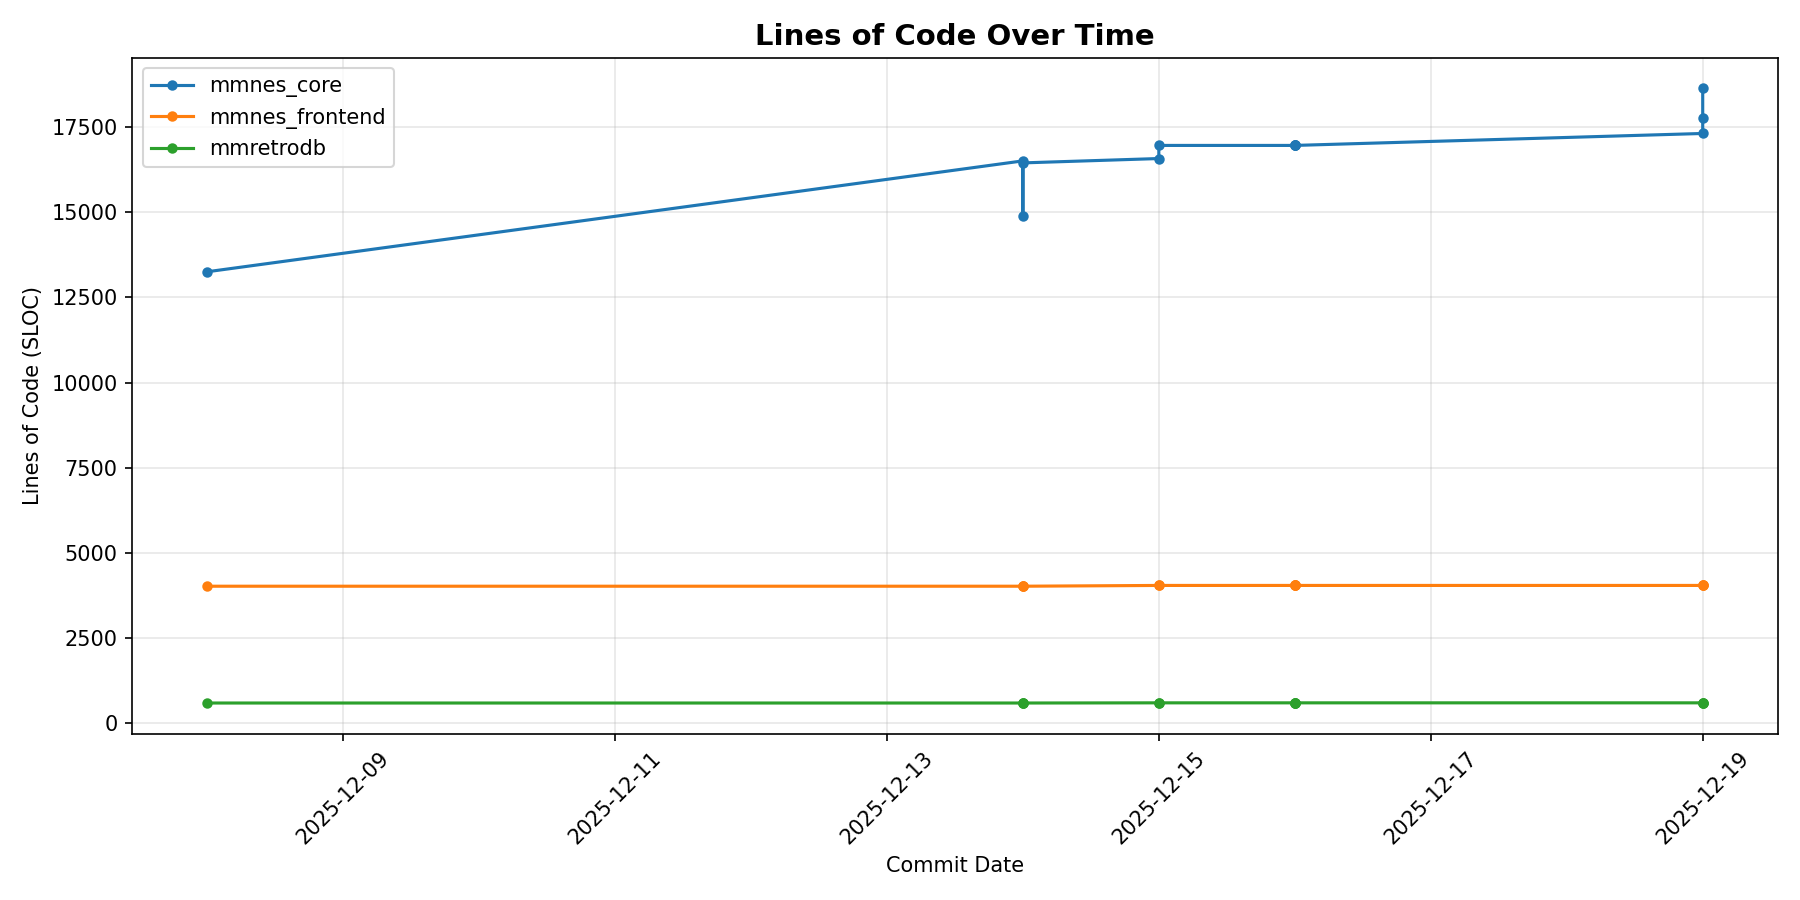
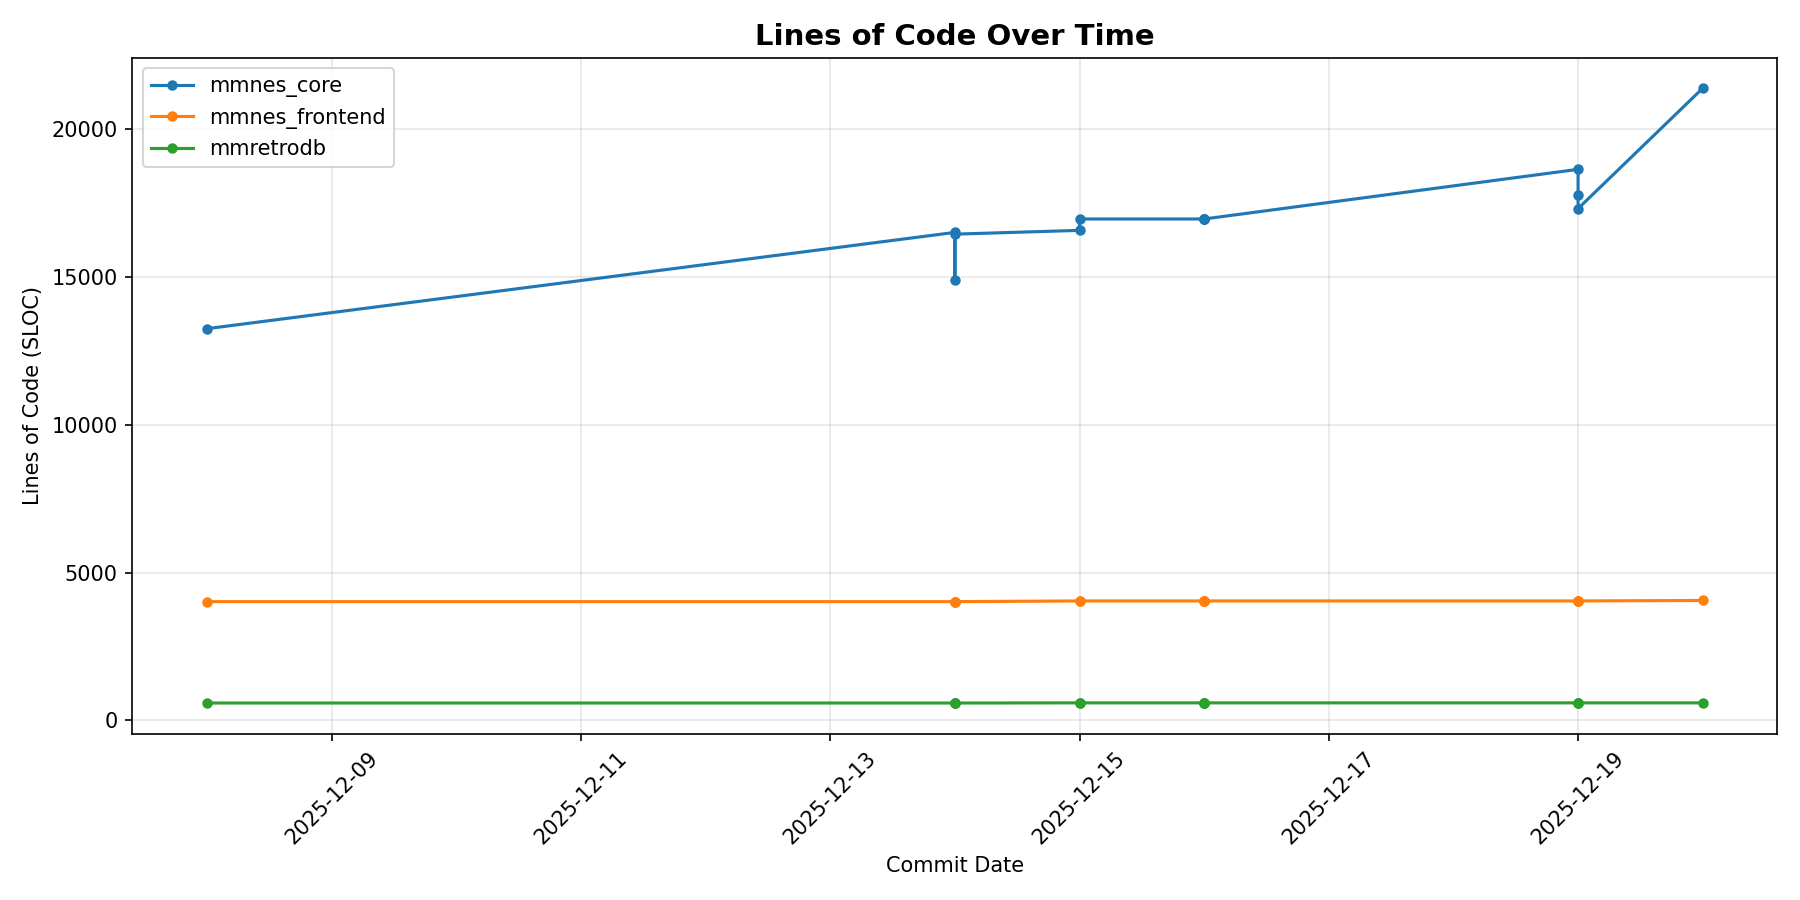
Update metrics data [skip ci]

diff --git a/metrics/data/METRICS_SUMMARY.md b/metrics/data/METRICS_SUMMARY.md
@@ -1,15 +1,15 @@
 # Code Quality Metrics Summary
 
-*Generated: 2025-12-19 23:03:04*
+*Generated: 2025-12-20 09:56:47*
 
-**Latest commit:** `ceb6ffb` on `main`
+**Latest commit:** `f311087` on `main`
 
 ## Per-Crate Metrics
 
 | Crate | LOC | Functions | Avg Cyclo | Coverage | Human % | Claude % |
 |-------|-----|-----------|-----------|----------|---------|----------|
-| mmnes_frontend | 4043 | 293 | 3.6 | 0.0% | 100.0% | 0.0% |
-| mmnes_core | 18641 | 1233 | 2.4 | 48.0% | 76.9% | 23.1% |
+| mmnes_frontend | 4059 | 293 | 3.6 | 0.0% | 99.4% | 0.6% |
+| mmnes_core | 21384 | 1260 | 2.7 | 46.0% | 67.6% | 32.4% |
 | mmretrodb | 596 | 58 | 2.8 | 77.0% | 100.0% | 0.0% |
 
 ## Definitions
